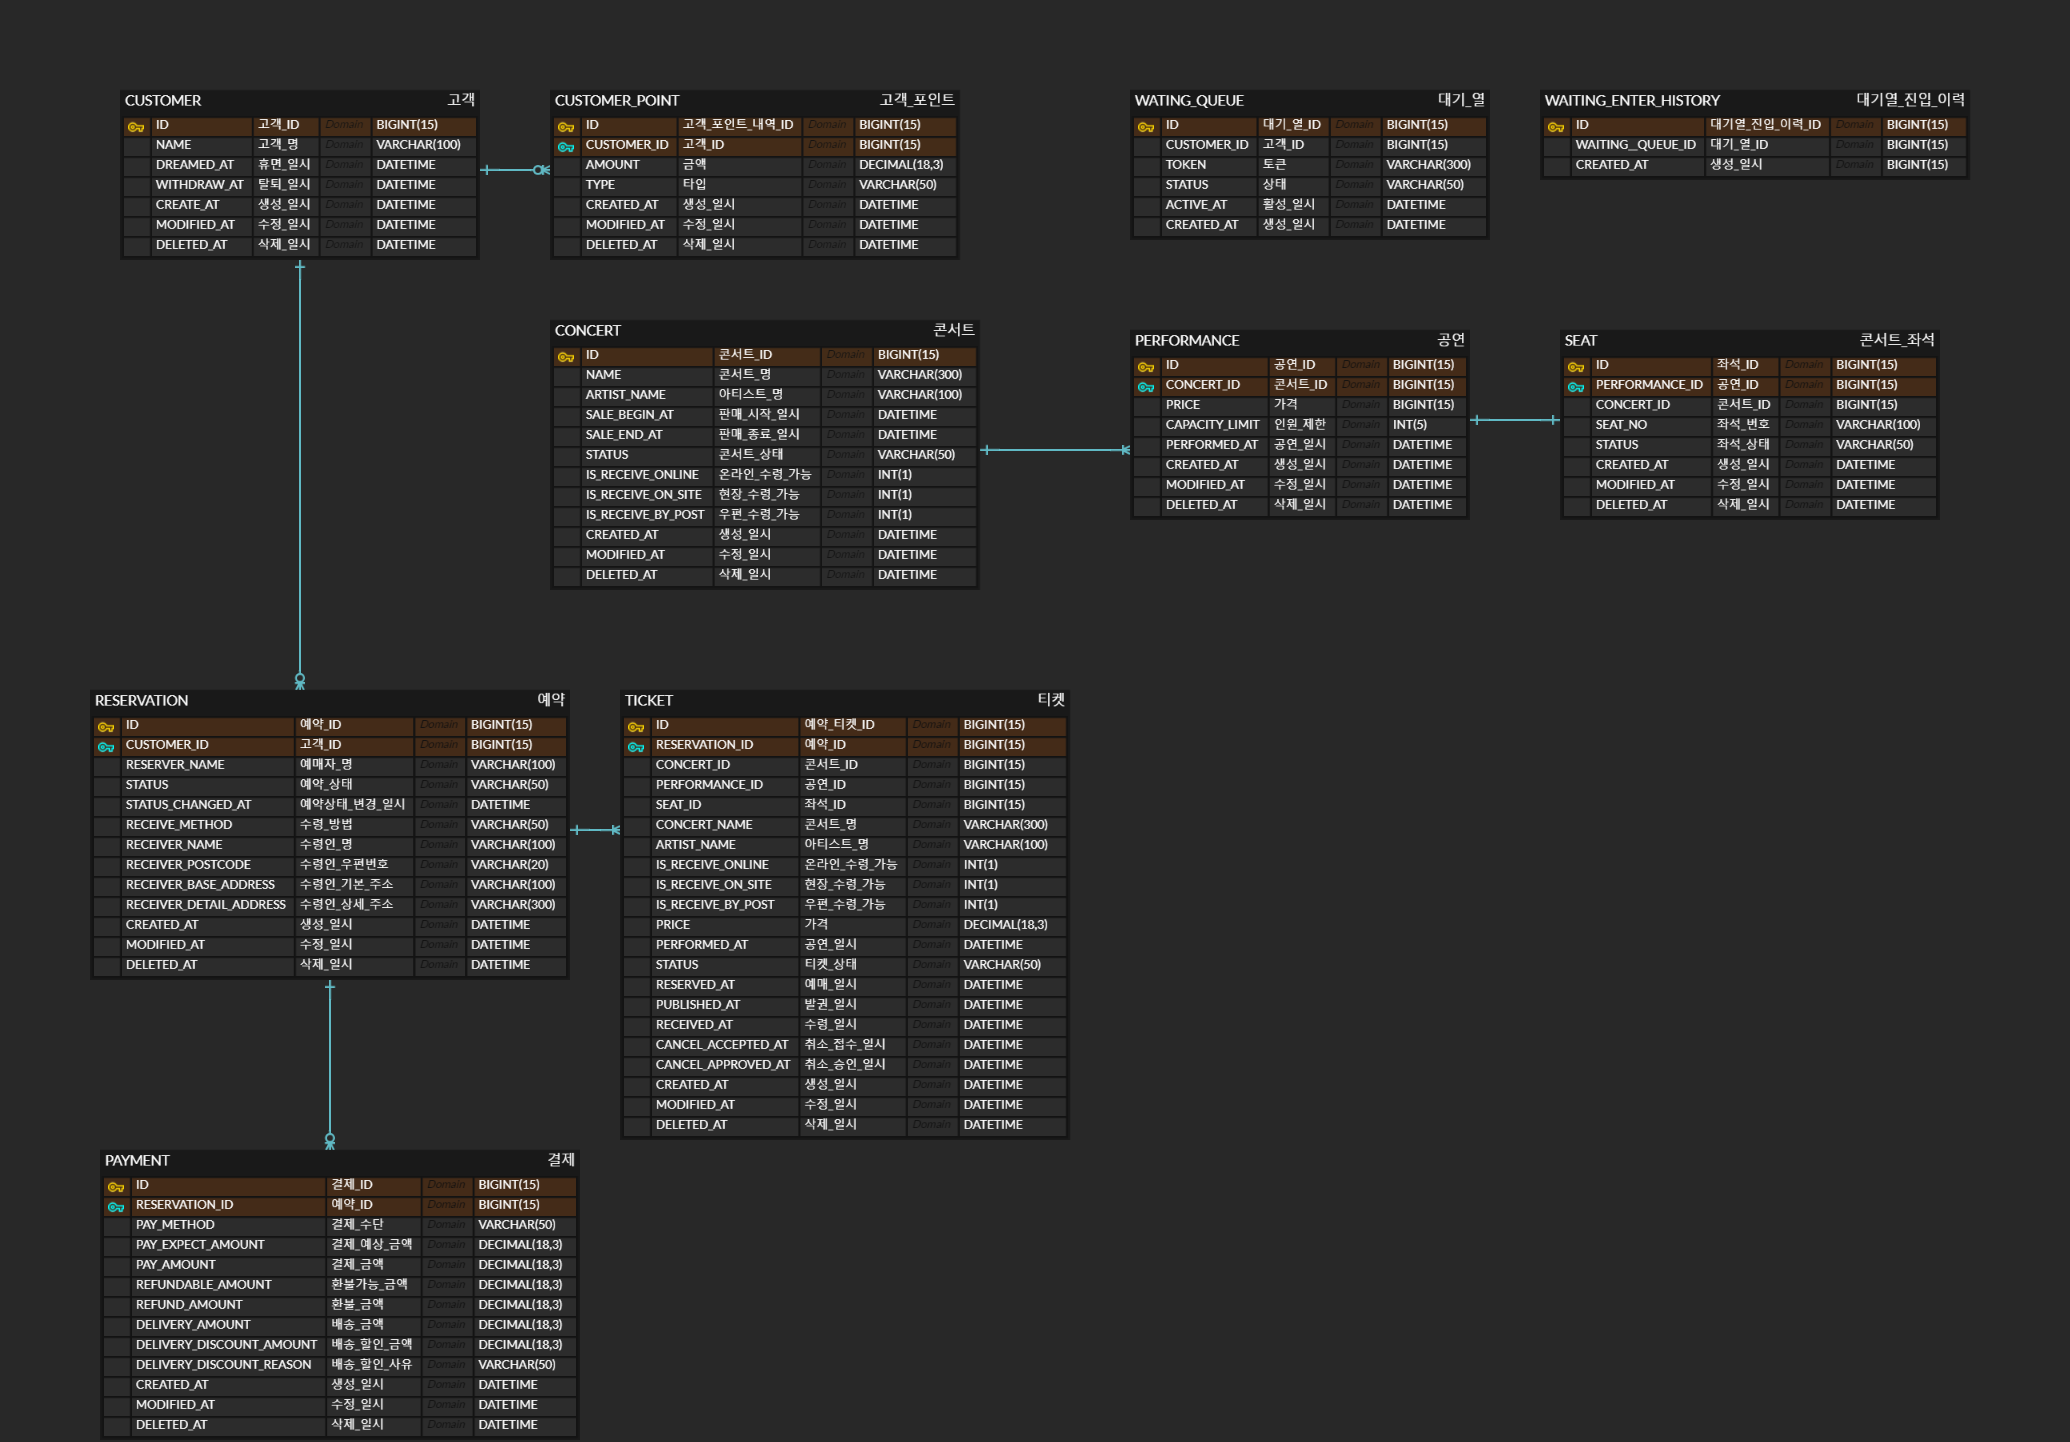
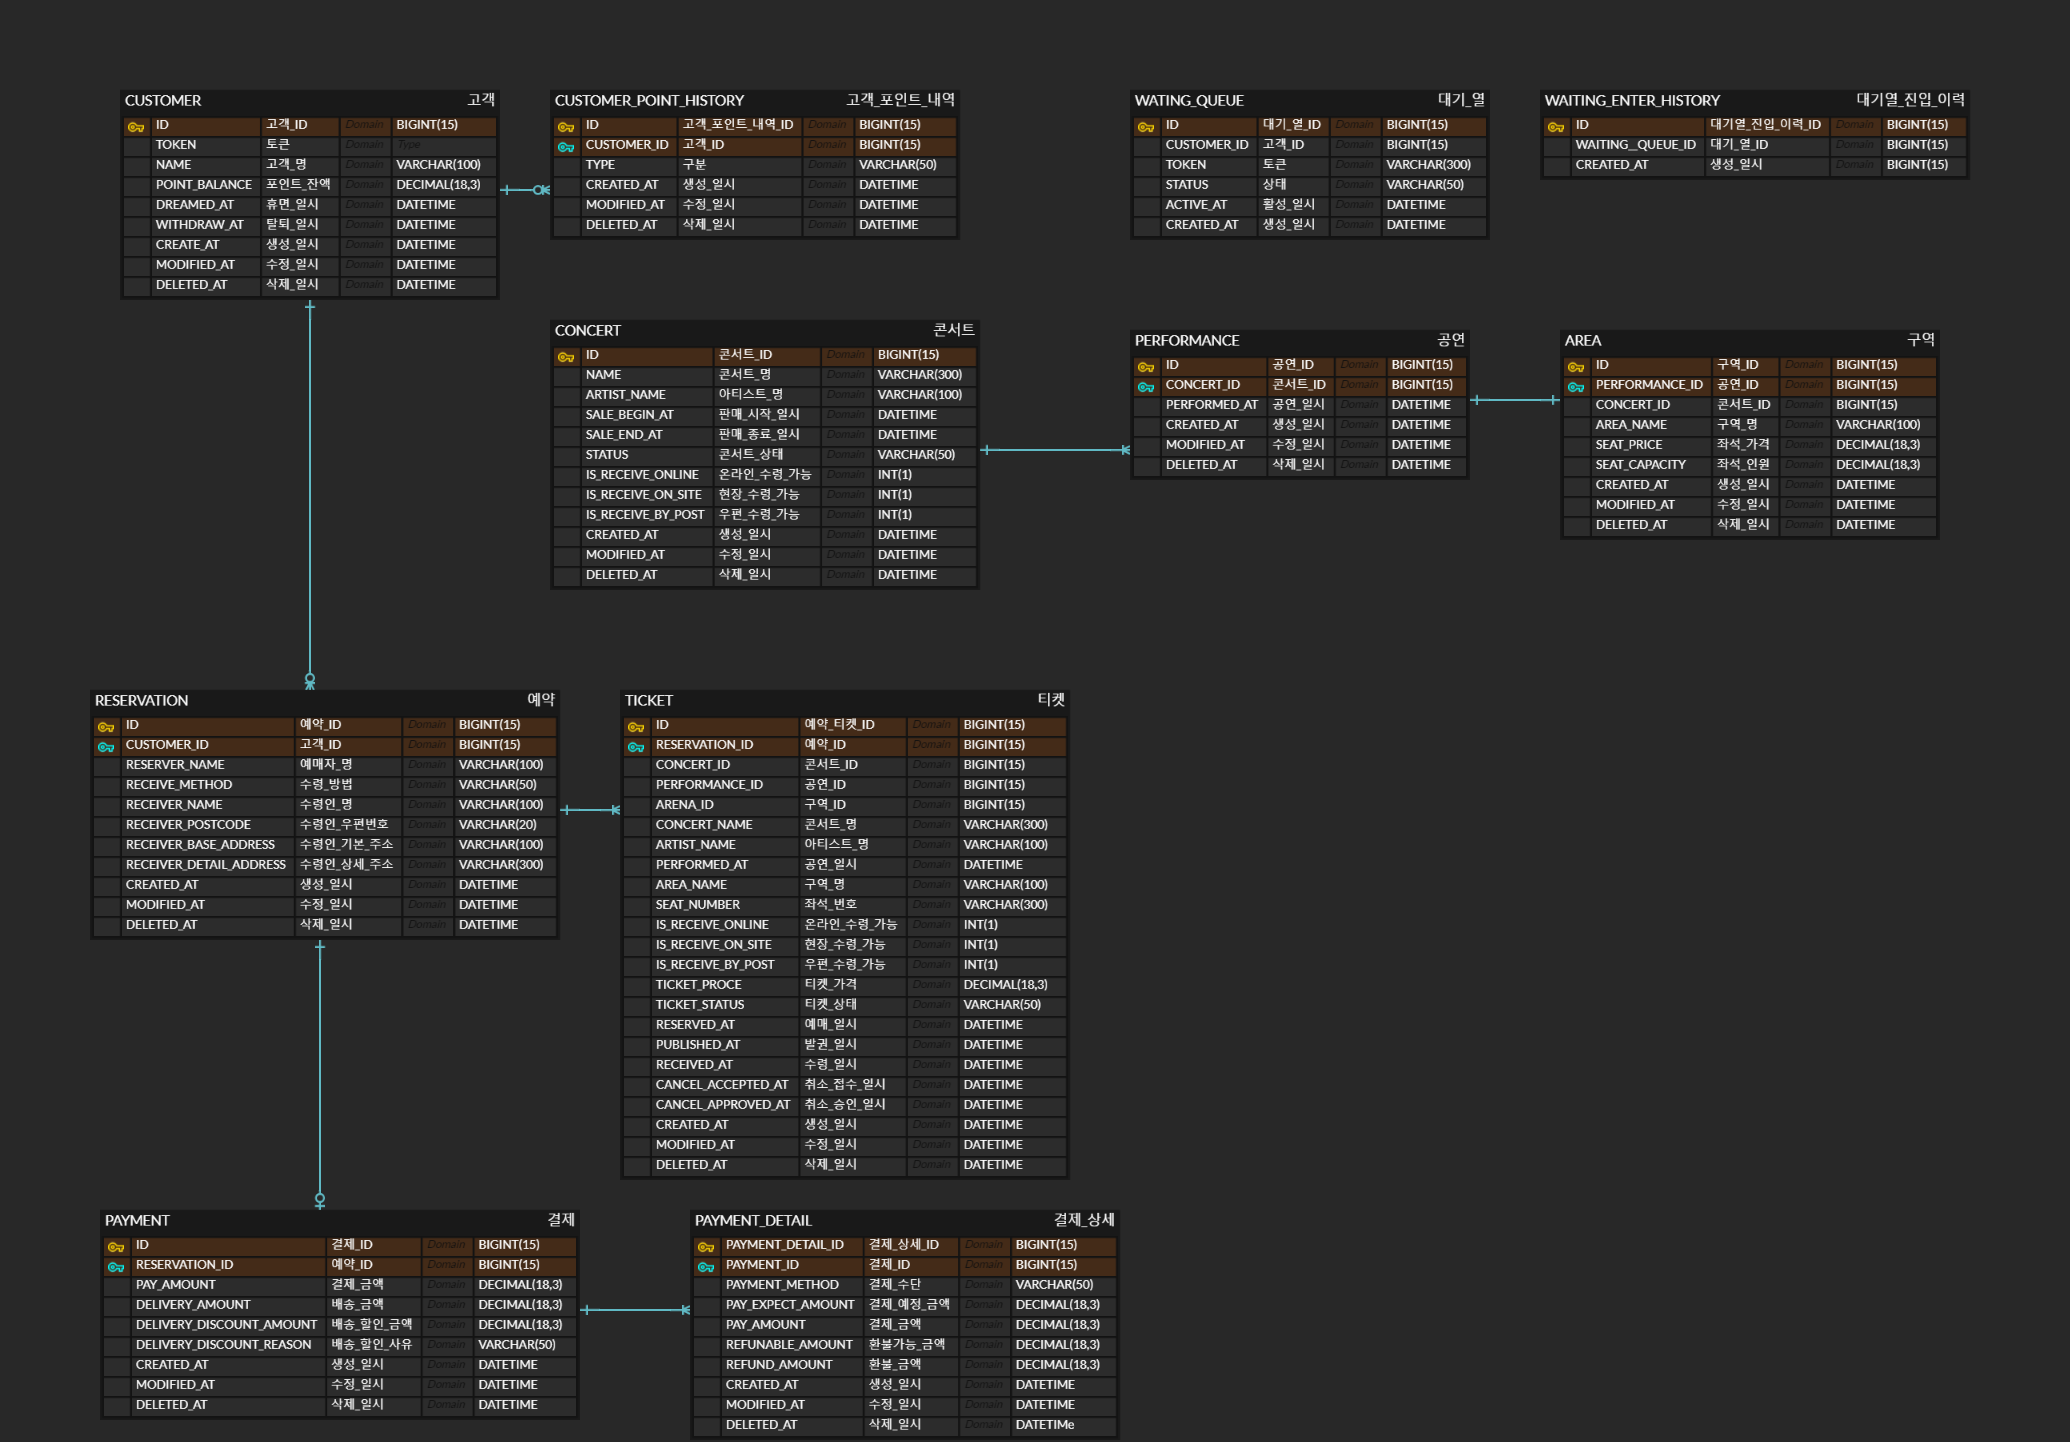
* DOCS : ERD 변경 및 요구사항 수정

diff --git a/README.md b/README.md
@@ -44,22 +44,24 @@
 
 ### 요구사항 명세서
 
-| NO | 	요구사항        | 	내용                                       |
-|----|--------------|-------------------------------------------|
-| 1  | 	대기열 진입	     | 유저의 토큰을 발급하고 대기열에 진입한다.                   |
-| 2  | 	대기열 확인	     | 유저의 현재 대기열 정보(대기 번호, 잔여 시간)를 확인한다.        |
-| 3  | 	토큰 만료	      | 좌석이 임시 배정되면 대기열의 해당 유저의 토큰을 만료시킨다.        |
-| 4  | 	콘서트 조회	     | 콘서트의 콘서트명, 아티스트명, 공연일시가 포함된 콘서트 정보를 반환한다. |
-| 5  | 	예약 가능 날짜 조회 | 	콘서트의 예약가능한 날짜 목록을 반환한다.                  |
-| 6  | 	좌석 정보 조회    | 	콘서트의 공연일시에 대한 총좌석수, 예약가능한 좌석 목록을 반환한다.   |
-| 7  | 	좌석 예약 요청    | 	선택한 좌석이 비어있을 경우 예약을 요청한다.                |
-| 8  | 	좌석 임시 배정    | 	예약 요청이 성공할 시, 해당 고객에게 5분간 좌석을 임시 배정한다.   |
-| 9  | 	티켓 생성       | 	예약 요청이 성공할 시 티켓을 생성한다.                   |
-| 10 | 	결제 요청       | 	결제를 요청한다.                                |
-| 11 | 	티켓 취소       | 	결제 요청이 실패할 시 예약의 상태를 취소로 변경한다.           |
-| 12 | 	결제 내역 생성    | 	결제완료 시 결제 내역을 생성 후 반환한다.                 |
-| 13 | 	포인트 차감      | 	결제완료 시 고객의 포인트를 차감한다.                    |
-| 14 | 	포인트 충전      | 	고객의 포인트를 충전한다.                           |
+| NO | 	요구사항        | 	내용                                                                           |
+|----|--------------|-------------------------------------------------------------------------------|
+| 1  | 	대기열 진입	     | 유저의 토큰을 발급하고 대기열에 진입한다. 대기열 제한 인원 이내일 시 토큰은 활성화 상태이고 제한 인원 초과일 시 토큰은 대기 상태이다. |
+| 2  | 	대기열 확인	     | 유저의 현재 대기열 정보(대기 번호, 잔여 시간, 대기인원)를 확인한다.                                      |
+| 3  | 	토큰 만료	      | 좌석 임시 배정 시간이 초과되거나 좌석 예약이 완료되면 대기열의 해당 유저의 토큰을 만료시킨다.                         |
+| 4  | 	콘서트 조회	     | 콘서트의 콘서트명, 아티스트명, 공연일시가 포함된 콘서트 정보를 반환한다.                                     |
+| 5  | 	예약 가능 날짜 조회 | 	콘서트의 예약가능한 날짜 목록을 반환한다.                                                      |
+| 6  | 	좌석 정보 조회    | 	콘서트의 공연일시에 대한 총좌석수, 예약가능한 좌석 목록을 반환한다.                                       |
+| 7  | 	좌석 임시 배정    | 	선택한 좌석이 비어있을 경우, 해당 고객에게 5분간 좌석을 임시 배정한다.                                    |
+| 8  | 	티켓 생성       | 	임시 배정이 성공할 시 티켓을 생성한다.                                                       |
+| 9  | 	좌석 예약 요청    | 	임시 배정한 좌석에 대하여 예약을 요청한다.                                                     |
+| 10 | 	결제 요청       | 	결제를 요청한다.                                                                    |
+| 11 | 	예약 취소       | 	결제 요청이 실패할 시 예약의 상태를 취소로 변경한다.                                               |
+| 12 | 	티켓 취소       | 	결제 요청이 실패할 시 티켓의 상태를 취소로 변경한다.                                               |
+| 13 | 	결제 내역 생성    | 	결제완료 시 결제 내역을 생성 후 반환한다.                                                     |
+| 14 | 	포인트 차감      | 	결제완료 시 고객의 포인트를 차감한다.                                                        |
+| 15 | 	포인트 충전      | 	고객의 포인트를 충전한다.                                                               |
+| 16 | 	포인트 잔액 조회   | 	고객의 포인트 잔액을 조회한다.                                                            |
 
 ---
 ## 프로젝트 설계
